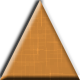
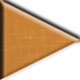
FIxed some art and towers look at enemies now

diff --git a/Assets/Scripts/Tower/TowerBase.cs b/Assets/Scripts/Tower/TowerBase.cs
@@ -59,28 +59,33 @@ public class TowerBase : MonoBehaviour {
 	protected virtual void PerformUpdate() {
 		SortTargets();
 
-		int targetsRemaining = MaxTargets;
+		if (targets.Count > 0) {
 
-		if (!IsOnCooldown && targets.Count > 0) {
-			for (int i = 0; i < targets.Count; i++) {
+			module.gameObject.LookAt2D(targets[0]);
 
-				if (targetsRemaining == 0) {
-					break;
-				}
+			int targetsRemaining = MaxTargets;
 
-				if (targets[i] != null) {
-					if (AttackCheck(targets[i])) {
-						Attack(targets[i]);
-						targetsRemaining--;
+			if (!IsOnCooldown) {
+				for (int i = 0; i < targets.Count; i++) {
+
+					if (targetsRemaining == 0) {
+						break;
+					}
+
+					if (targets[i] != null) {
+						if (AttackCheck(targets[i])) {
+							Attack(targets[i]);
+							targetsRemaining--;
+						}
+					}
+					else {
+						targets.RemoveAt(i);
+						i--;
 					}
 				}
-				else {
-					targets.RemoveAt(i);
-					i--;
-				}
-			}
 
-			attackCooldown = GetAttackSpeed();
+				attackCooldown = GetAttackSpeed();
+			}
 		}
 	}
 
